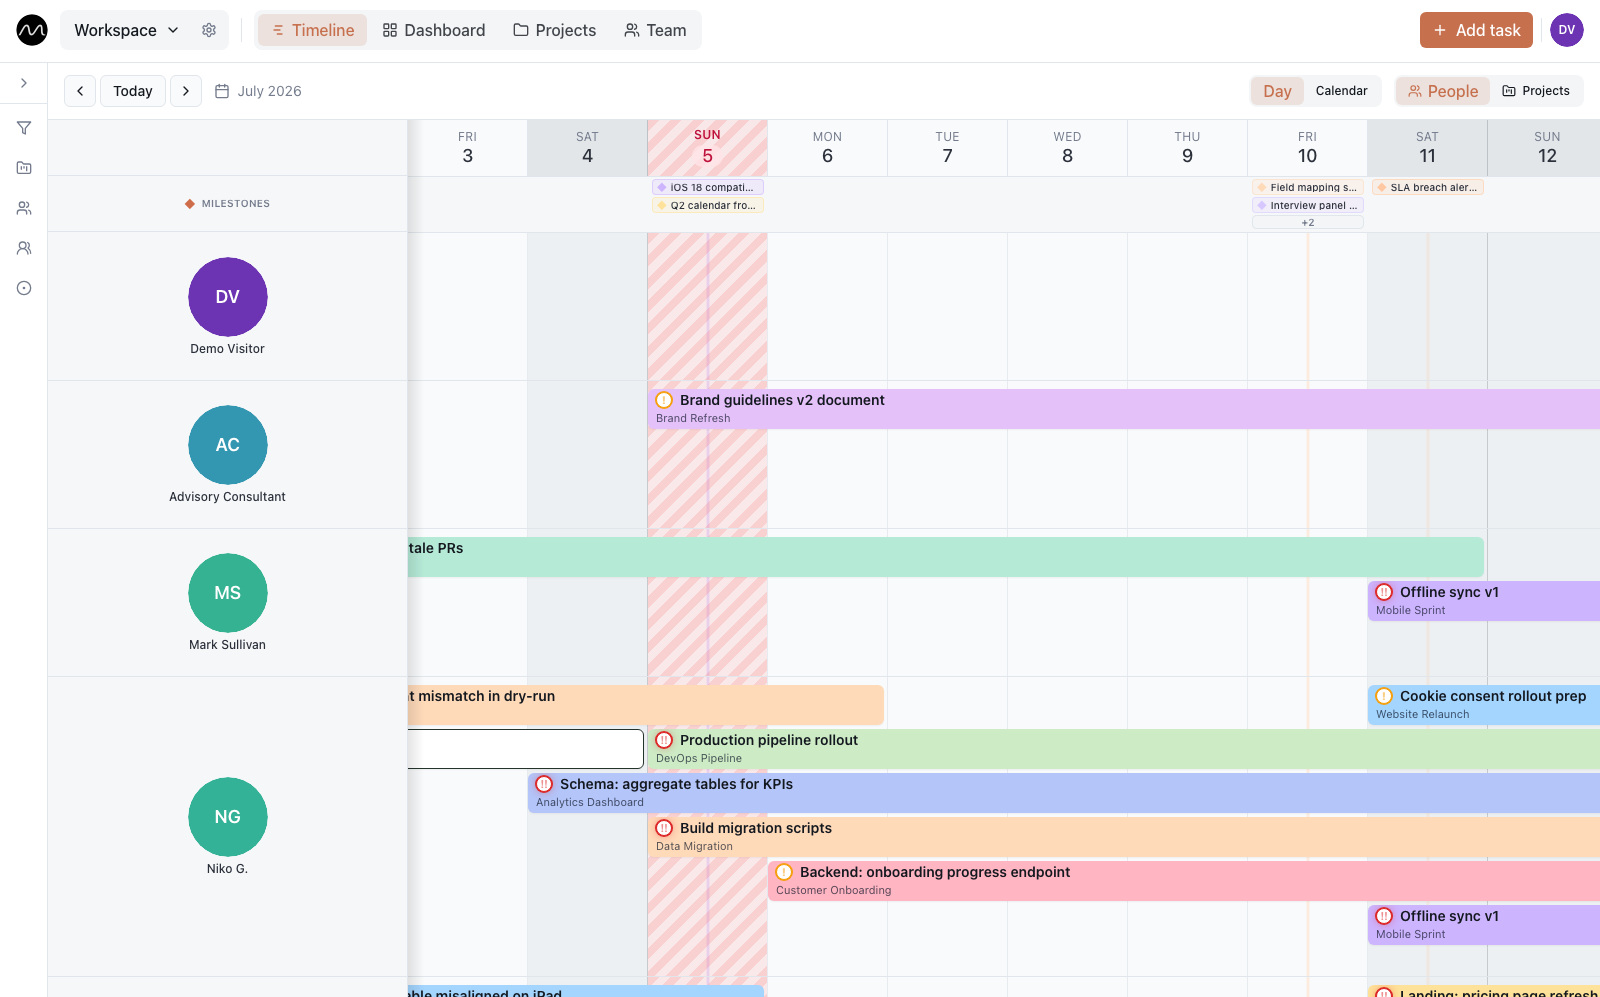
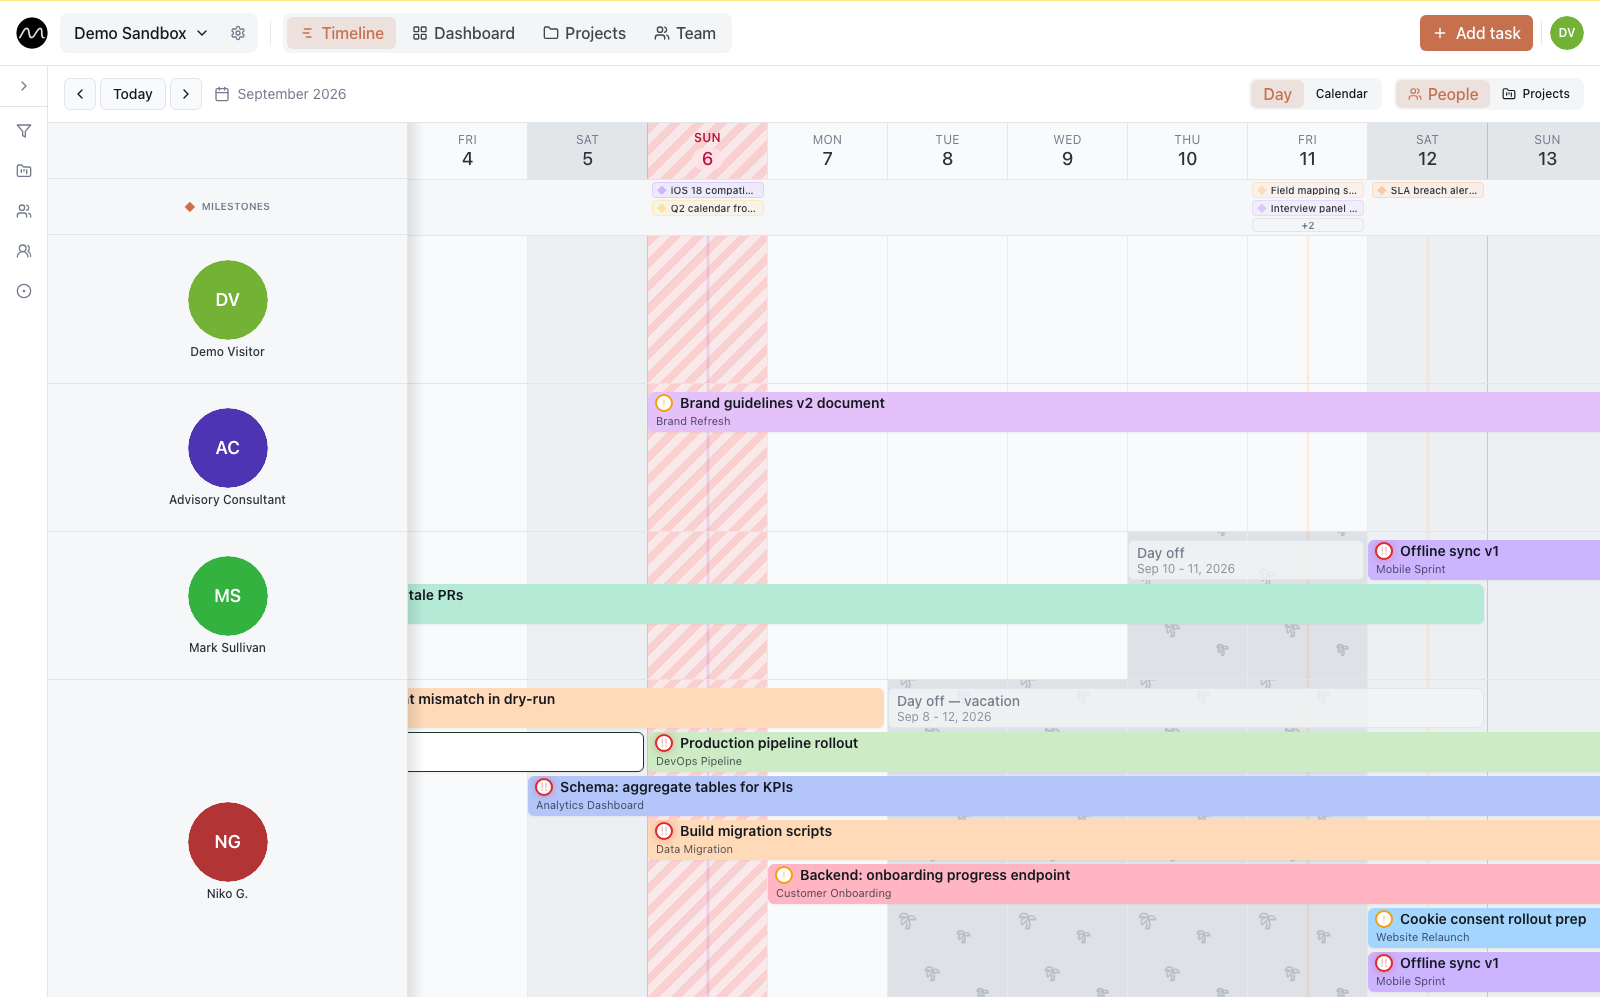
docs: bring README, AGENTS.md and troubleshooting up to what ships
README lists the product as it is today (timeline modes, subtasks and
repeats, team, projects with contacts, dashboard heatmap, push and PWA,
mobile layer, demo sandbox) with a fresh screenshot from the sandbox.

AGENTS.md now describes the real main merge (local --no-ff after
release-sync, no PR), the threads-based vitest pool, and a short list of
known pitfalls that used to live only in agent memory: server-side
feature flags, applied-but-missing migration objects, ECR and esm.sh
routing, the Keycloak admin password, the merge hang. Troubleshooting
gets the matching recipes.

diff --git a/docs/troubleshooting.md b/docs/troubleshooting.md
@@ -110,3 +110,57 @@ npm run lingui:extract && npm run lingui:compile
 Duplicated SQL migrations are harmless to the database: Liquibase follows the explicit
 changeSet list in `infra/supabase/liquibase/changelog-master.xml` and never picks them
 up.
+
+## `TLS handshake timeout` pulling from `public.ecr.aws` during deploy
+
+The `web` image build pulls its base images from Amazon's public registry, whose
+anycast address is sometimes unreachable from the server. Re-running the deploy
+does not help: pull the base images on the server first, retrying until they land,
+then deploy again.
+
+```bash
+ssh root@<prod> 'for img in public.ecr.aws/docker/library/node:20-bookworm-slim public.ecr.aws/docker/library/nginx:1.27-alpine; do for i in $(seq 1 10); do docker pull "$img" && break; sleep 15; done; done'
+```
+
+The tags above are the ones `infra/web/Dockerfile` uses today; take the exact names
+from the failing build log if they have moved on.
+
+## `502` on every `/functions/v1/*` after recreating `edge-runtime`
+
+Edge Functions fetch their dependencies from `esm.sh` on a cold start, and the
+production server cannot reach that host's anycast address. The compose file pins
+`esm.sh` to a Cloudflare IP via `extra_hosts` and keeps a persistent Deno cache
+(`motio_deno_cache`), so a recreated container starts from the cache without any
+download. If the `502` is back, check that both are still in place:
+
+```bash
+docker inspect infra-functions-1 --format '{{json .HostConfig.ExtraHosts}} {{json .Mounts}}'
+```
+
+## `git merge` into `main` hangs, or `cannot lock ref 'HEAD'`
+
+Merging the working branch into `main` has stalled on the commit step more than
+once. Run it with a generous timeout, `GIT_EDITOR=true` and no terminal on stdin.
+If the process was killed, it leaves stale locks behind and the next commit fails
+with `cannot lock ref 'HEAD'`. Make sure no git process is still running, then
+remove the locks and finish the merge:
+
+```bash
+pgrep -fl 'git (merge|commit)' || rm -f .git/HEAD.lock .git/refs/heads/main.lock
+```
+
+`MERGE_HEAD` may still be present with a fully merged index: `git commit --no-edit`
+completes it. If the merge state is gone, simply run the merge again.
+
+## A migration is `EXECUTED` but its object is missing
+
+`databasechangelog` records that a changeset ran, not that its object survived.
+Verify against the catalog before trusting the log:
+
+```bash
+docker exec infra-db-1 psql -U supabase_admin -d postgres -c "select tgname from pg_trigger where tgname = '<trigger>'"
+```
+
+Write migrations so they can be re-applied safely (`create or replace`, `if not
+exists`, `drop ... if exists` first) and fix a missing object with a new migration,
+never by editing an old one.

diff --git a/README.md b/README.md
@@ -27,12 +27,18 @@ keep the whole team's workload visible — self-hosted, with SSO out of the box.
 
 ## ✨ Features
 
-- 📅 **Timeline and calendar** — an interactive planner with day/calendar views and a task detail panel.
-- 👥 **Workspaces and roles** — `viewer` / `editor` / `admin`, per-workspace members and invitations.
+- 📅 **Timeline** — drag-and-drop planner grouped by people or by project, with day / week / calendar views; milestones and time off sit on the same grid. Drag a task past the edge of the screen and the timeline scrolls along.
+- ✅ **Tasks with depth** — subtasks, repeating series, priorities, tags, rich descriptions with pasted images, comments with @mentions and screenshots.
+- 👥 **Team** — members and groups, each person's current and past tasks at a glance.
+- 📁 **Projects and customers** — project cards with their team and customer contacts, a workspace-wide contact list; people you have entered before are suggested as you type.
+- 📊 **Dashboard** — configurable widgets and a department workload heatmap; a daily brief once a day and release notes right in the app.
+- 🔔 **Notifications** — in-app inbox plus browser push; installable as a PWA, push works on iPhone too.
+- 📱 **Works on phones** — a dedicated mobile layer for the timeline, tasks, team and projects.
+- 🏢 **Workspaces and roles** — `viewer` / `editor` / `admin`, invitations, owner transfer, leaving a workspace.
 - 🔐 **SSO out of the box** — sign-in through Keycloak; sign-up is self-service (the app opens the Keycloak registration form), while invitations and account deletion happen in the app itself, Keycloak is the identity store.
-- 🖼 **Task media** — paste, drag or upload images straight into task descriptions, with per-user and per-workspace quotas.
-- 💾 **Backups built in** — scheduled backups with upload/download and one-click restore from the admin console.
-- 🗄 **Super-admin console** — user overview, workspace management, backup/restore.
+- 💾 **Backups built in** — daily backups of the database, media and Keycloak with retention, upload/download and one-click restore from the admin console.
+- 🗄 **Super-admin console** — user overview, workspace management, backup/restore, announcements to every user.
+- 🧪 **Demo sandbox** — `/demo` runs entirely in the browser on sample data, no sign-in needed.
 - 🌍 **Two languages** — English and Russian UI (Lingui).
 
 ## 🚀 Quick start
